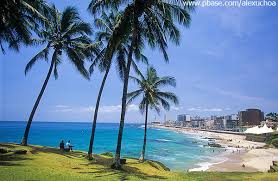
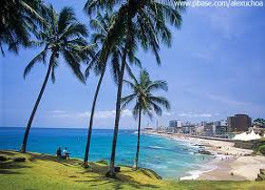
add locais , css, script

diff --git a/olimpiadas/style/estilos.css b/olimpiadas/style/estilos.css
@@ -21,9 +21,6 @@ a:hover {
 }
 
 /* CABEÇALHO  */
-#cabecalho .botao-menu {
-	display: none;
-}
 #cabecalho {
 	position: fixed;
 	top: 0;
@@ -115,6 +112,47 @@ body.home #cabecalho.cabecalho-inicial .logo {
     max-width: 100%;
     min-height: 100%;
 }
+
+
+
+.banner-local {
+	width: 100%;
+	overflow: hidden;
+}
+.banner-local .overlay {
+	background: rgba(0,48,91,0.45);
+	width: 100%;
+	height: 100%;
+	position: absolute;
+	top: 0;
+	left: 0;
+	z-index: 9;
+}
+.banner-local .chamada-banner {
+	font-size: 30px;
+	font-family: 'Raleway', sans-serif;
+	font-weight: 500;
+	position: absolute;
+	bottom: 30px;
+	left: 50%;
+	transform:translateX(-50%);
+	max-width: 400px;
+	color: #fff;
+	text-align: center;
+	z-index: 10;
+}
+.banner-local .chamada-banner i {
+	font-size: 40px;
+}
+.slider-local  img {
+    max-width: 100%;
+    min-height: 100%;
+}
+
+
+
+
+
 body.home #cabecalho.cabecalho-inicial .menu a {
 	color: #fff;
 	margin-top: 40px;
@@ -421,9 +459,4 @@ select.campo {
 .tabela-ficha .nome-ficha {
 	font-weight: bold;
 	color: #00B33B;
-}
-
-.img-responsive {
-	max-width: 100%;
-	height: auto;
 }

diff --git a/olimpiadas/locais.php b/olimpiadas/locais.php
@@ -1,67 +1,15 @@
 <?php  
 	include("header.php");
 ?>
-
-<section id="content" class="container">
-	<h1 class="titulo-pagina">Locais dos jogos</h1>
-	<p class="form-group"><label for="regiao">Região: </label>
-	<select name="regiao" size="1">
-		<option value="" selected>Selecione</option>
-		<option value="SD">Sudeste</option>
-		<option value="SUL">Sul</option>
-		<option value="CO">Centro-Oeste</option>
-		<option value="NO">Norte</option>
-		<option value="ND">Nordeste</option>
-	</select>
-	<p class="form-group"><label for="cidade">Cidade: </label>
-	<select name="cidade" size="1">
-		<option value="" selected>Selecione</option>
-	</select>
-	<p class="form-group"><label for="esporte">Esporte: </label>
-	<select name="esporte" size="1">
-		<option value="" selected>Selecione</option>
-	</select>
-	<br/><br/><input type="submit" value ="Pesquisar" class="botao">
-</section>
-<section id="content" class="container">
-	<h1 class="titulo-pagina">Locais</h1>
-	<ol class="lista-interativa">
-	  <li>
-	  	<a href="modalidade.php">
-	  		<img src="images/locais/local_deodoro.jpg"/>
-	  		<div class="hover">
-	  			<h1>Deodoro</h1>
-	  		</div>
-	  	</a>
-	  </li>
-	  <li>
-	  	<a href="modalidade.php">
-	  		<img src="images/locais/maracana.jpg"/>
-	  		<div class="hover">
-	  			<h1>Maracanã</h1>
-	  		</div>
-	  	</a>
-	  </li>
-	  <li>
-	  	<a href="modalidade.php">
-	  		<img src="images/locais/barra.jpg"/>
-	  		<div class="hover">
-	  			<h1>Barra</h1>
-	  		</div>
-	  	</a>
-	  </li>
-	  <li>
-	  	<a href="modalidade.php">
-	  		<img src="images/locais/copacabana.jpg"/>
-	  		<div class="hover">
-	  			<h1>Copacabana</h1>
-	  		</div>
-	  	</a>
-	  </li>
-	<ol>
-	<div class="clear"></div>
-
-</section>
+ <img src="images/locais/world.png" alt="Planets" usemap="#world">
+ <map name="world">
+   <area shape="circle" coords="354,121,40" href="amazonas_manaus.php" alt="Manaus">
+   <area shape="circle" coords="837,255,40" href="brasilia.htm" alt="Brasilia">
+   <area shape="circle" coords="930,292,40" href="bh.htm" alt="BH">
+   <area shape="circle" coords="844,432,40" href="sp.htm" alt="SP">
+   <area shape="circle" coords="1029,391,40" href="rio.php" alt="RJ">
+   <area shape="circle" coords="981,165,40" href="salvador.htm" alt="Salvador">
+	</map>
 
 <?php  
 	include("footer.php");

diff --git a/olimpiadas/rio_deodoro.php b/olimpiadas/rio_deodoro.php
@@ -1,0 +1,37 @@
+<?php include ("header.php"); ?>
+<section id="content" class="container">
+	  <h1 class ="titulo-pagina">Deodoro</h1>
+	  <div class="banner-local">
+		<div class="slider-local">
+			<ul class="slides">
+				<li><img  src="images/locais/deodoro_0.jpg" width="1200" height="457"/></li>
+				<li><img  src="images/locais/deodoro_1.jpg" width="1200" height="457"/></li>
+				<li><img  src="images/locais/deodoro_2.jpg" width="1200" height="457"/></li>
+				<li><img  src="images/locais/deodoro_3.jpg" width="1200" height="457"/></li>
+				<li><img  src="images/locais/deodoro_4.jpg" width="1200" height="457"/></li>
+			</ul>
+		</div>
+	</div>
+	
+	
+ <h2 class ="titulo-pagina">
+ <br>	
+ Conheça o Local 
+ </h2>
+<p>A construção de instalações na Região de Deodoro para os Jogos Pan-americanos Rio 2007 resultou na participação ativa dos 
+jovens em diversas modalidades esportivas. Essa participação ficará ainda mais evidente com as novas instalações construídas 
+para os Jogos Rio 2016. Cercada de espaços verdes, a região será palco de 11 competições Olímpicas - basquetebol, hipismo saltos, hipismo adestramento, 
+concurso completo de equitação, ciclismo mountain bike, ciclismo BMX, pentatlo moderno, tiro esportivo, canoagem slalom, hóquei sobre grama e rugby-,
+ além de quatro Paralímpicas- tiro esportivo, hipismo, esgrima em cadeira de rodas e futebol de 7.</p>
+ <br>
+<h2 class ="titulo-pagina">
+ Legado 
+ </h2>
+<p>Os Jogos Olímpicos e Paralímpicos Rio 2016 deixarão de legado para a Região de Deodoro uma nova infraestrutura de centros comerciais e 
+de lazer, assim como as instalações esportivas que comporão o Parque Radical. Investimentos substanciais em infraestrutura de transporte 
+vão melhorar o acesso desta região a Barra e a outras regiões do Rio.</p>
+</section>
+
+<?php  
+	include("footer.php");
+?>

diff --git a/olimpiadas/amazonas_manaus.php b/olimpiadas/amazonas_manaus.php
@@ -1,0 +1,30 @@
+<?php include ("header.php"); ?>
+<section id="content" class="container">
+	  <h1 class ="titulo-pagina">Manaus</h1>
+	  <div class="banner-local">
+		<div class="slider-local">
+			<ul class="slides">
+				<li><img  src="images/locais/manaus/arena_amazonas.jpg" width="1150" height="457"/></li>
+				<li><img  src="images/locais/manaus/arena_amazonas1.jpg" width="1150" height="457"/></li>
+				<li><img  src="images/locais/manaus/arena_amazonas2.jpg" width="1150" height="457"/></li>
+				<li><img  src="images/locais/manaus/arena_amazonas3.jpg" width="1150" height="457"/></li>
+				x
+			</ul>
+		</div>
+	</div>
+	
+	
+ <h2 class ="titulo-pagina">
+ <br>	
+ Conheça o Local 
+ </h2>
+ 
+<p>Com arquitetura inspirada na Floresta Amazônica, a Arena Amazônia foi recentemente construída no coração de Manaus para
+ receber jogos da Copa do Mundo da FIFA 2014 e tem capacidade para 45.597 pessoas..</p>
+ <br>
+
+</section>
+
+<?php  
+	include("footer.php");
+?>

diff --git a/olimpiadas/rio.php b/olimpiadas/rio.php
@@ -1,0 +1,44 @@
+<?php include ("header.php"); ?>
+<section id="content" class="container">
+	<h1 class="titulo-pagina">Locais</h1>
+	<ol class="lista-interativa">
+	  <li>
+	  	<a href="rio_deodoro.php">
+	  		<img src="images/locais/local_deodoro.jpg"/>
+	  		<div class="hover">
+	  			<h1>Deodoro</h1>
+	  		</div>
+	  	</a>
+	  </li>
+	  <li>
+	  	<a href="modalidade.php">
+	  		<img src="images/locais/maracana.jpg"/>
+	  		<div class="hover">
+	  			<h1>Maracanã</h1>
+	  		</div>
+	  	</a>
+	  </li>
+	  <li>
+	  	<a href="modalidade.php">
+	  		<img src="images/locais/barra.jpg"/>
+	  		<div class="hover">
+	  			<h1>Barra</h1>
+	  		</div>
+	  	</a>
+	  </li>
+	  <li>
+	  	<a href="modalidade.php">
+	  		<img src="images/locais/copacabana.jpg"/>
+	  		<div class="hover">
+	  			<h1>Copacabana</h1>
+	  		</div>
+	  	</a>
+	  </li>
+	<ol>
+	<div class="clear"></div>
+
+</section>
+
+<?php  
+	include("footer.php");
+?>
